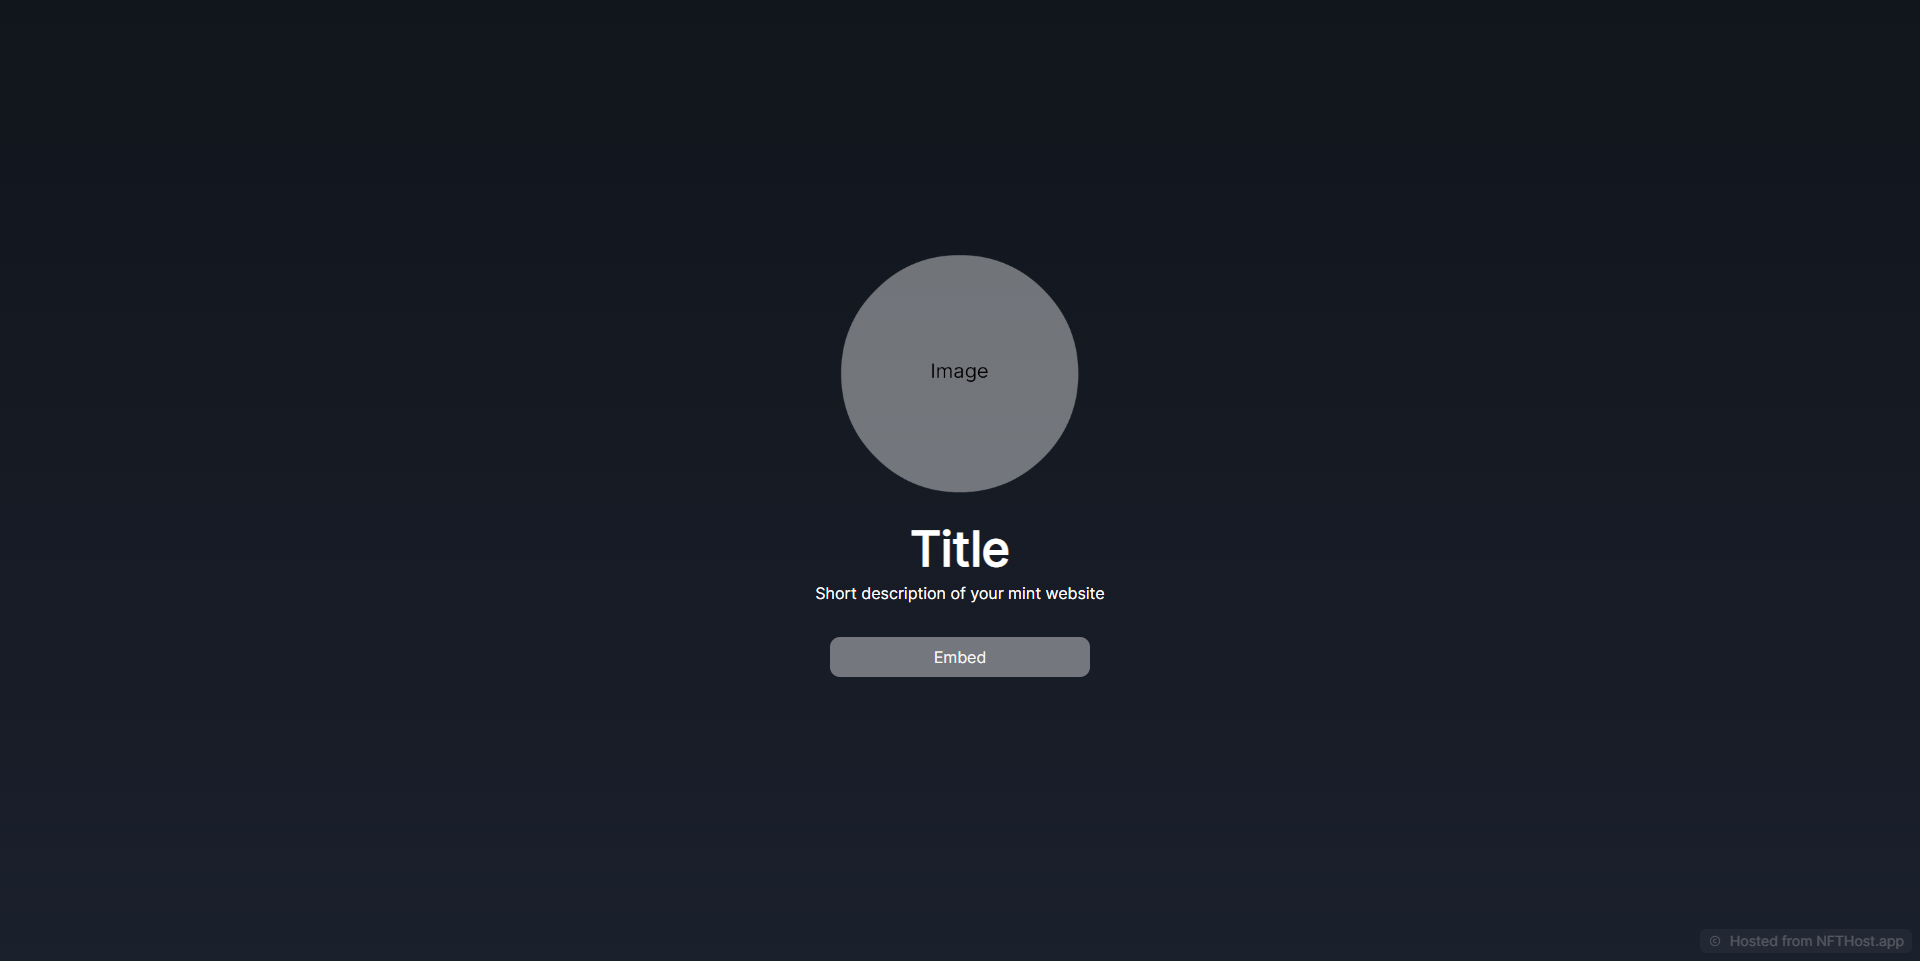
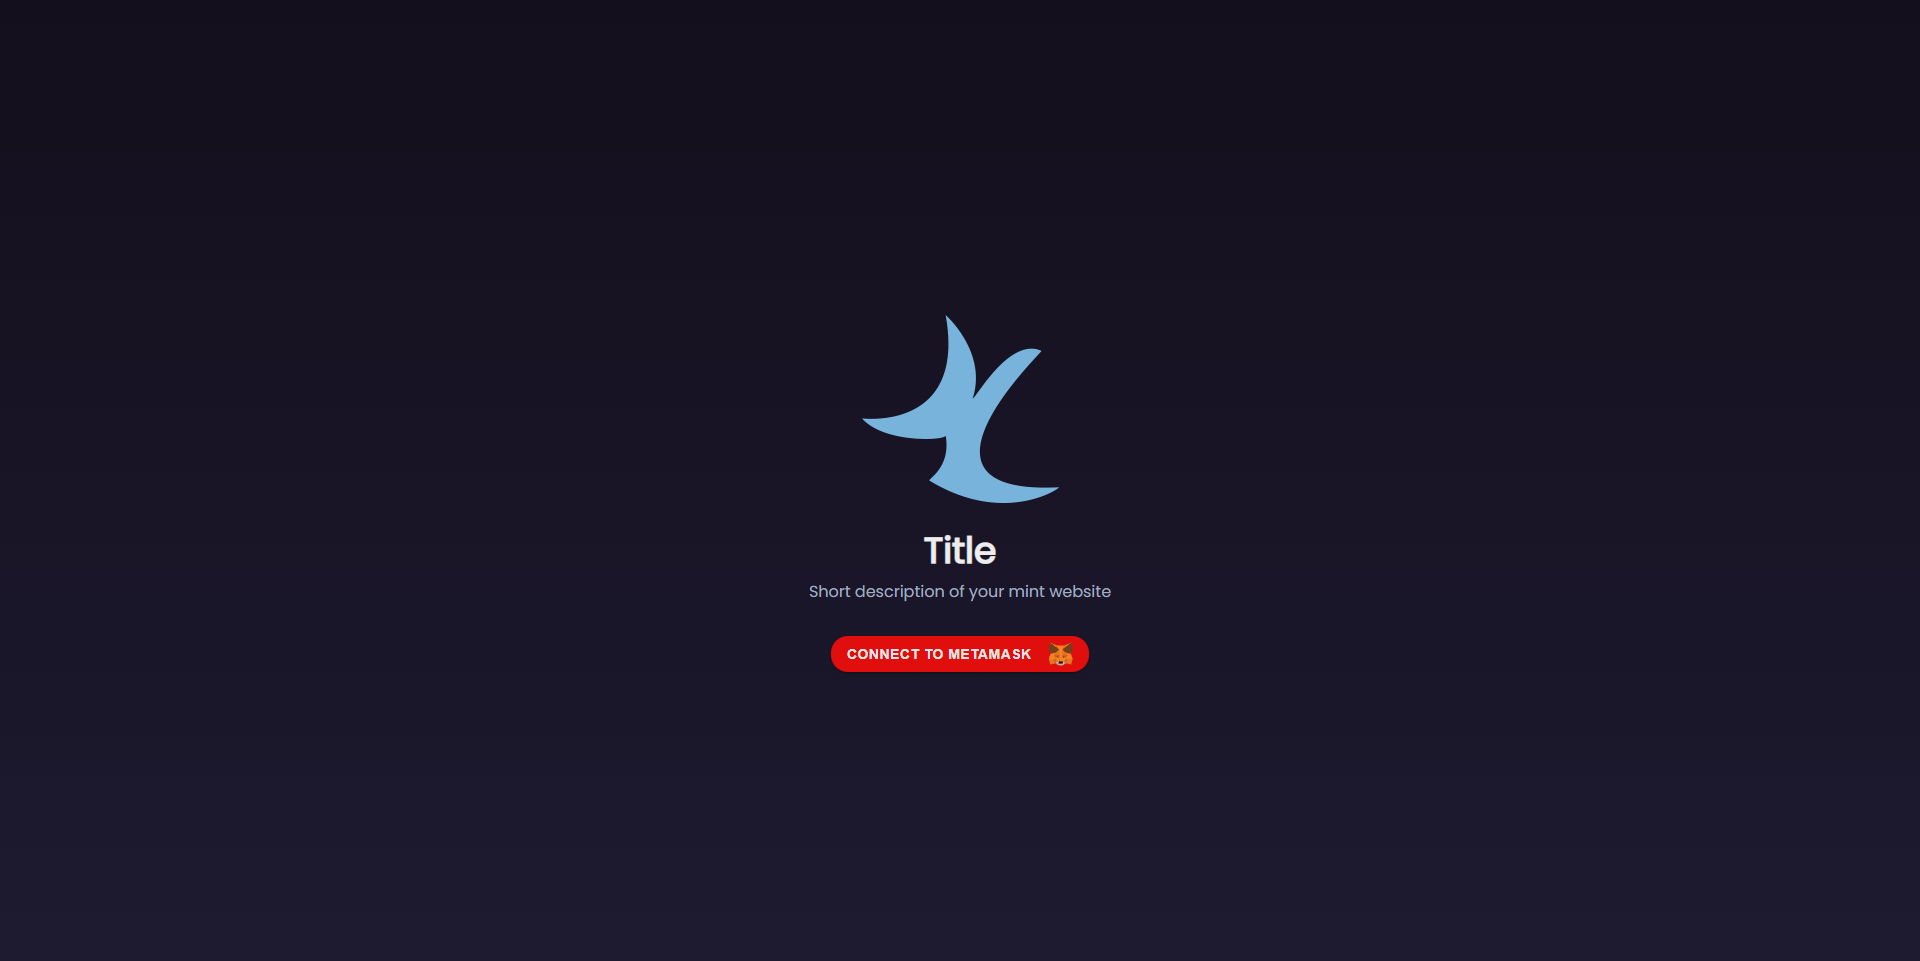
🚀 UPDATE: updated images and templates

Changed region(s): [[0.4062, 0.2497, 0.5938, 0.6243], [0.4062, 0.6556, 0.5938, 0.718], [0.9062, 0.9677, 1.0, 0.999]]

diff --git a/src/components/services/Website/SiteTemplates/Template3.js b/src/components/services/Website/SiteTemplates/Template3.js
@@ -18,7 +18,7 @@ const Template3 = () => {
         >
             <Watermark position='absolute' bottom='4' right='4' />
             <Wrap 
-                spacing='5em' 
+                spacing='10em' 
                 p='3em' 
                 borderRadius='20px'
                 justify='center'
@@ -29,7 +29,7 @@ const Template3 = () => {
                     boxSize='240px'
                     objectFit='scale-down'
                 />
-                <Flex flexDir='column' alignItems='center' mb='1em'>
+                <Flex flexDir='column' alignItems='center' mb='1em' justifyContent='center'>
                     <Heading as='h1' textAlign='center'>
                         {userWebsite?.components?.title}
                     </Heading>

diff --git a/src/components/services/Website/SiteTemplates/Template2.js b/src/components/services/Website/SiteTemplates/Template2.js
@@ -18,12 +18,12 @@ const Template2 = () => {
         >
             <Watermark position='absolute' bottom='4' right='4' />
             <Wrap 
-                spacing='5em' 
+                spacing='10em' 
                 p='3em' 
                 borderRadius='20px'
                 justify='center'
             >
-                <Flex flexDir='column' alignItems='center' mb='1em'>
+                <Flex flexDir='column' alignItems='center' mb='1em' justifyContent='center'>
                     <Heading as='h1' textAlign='center'>
                         {userWebsite?.components?.title}
                     </Heading>
